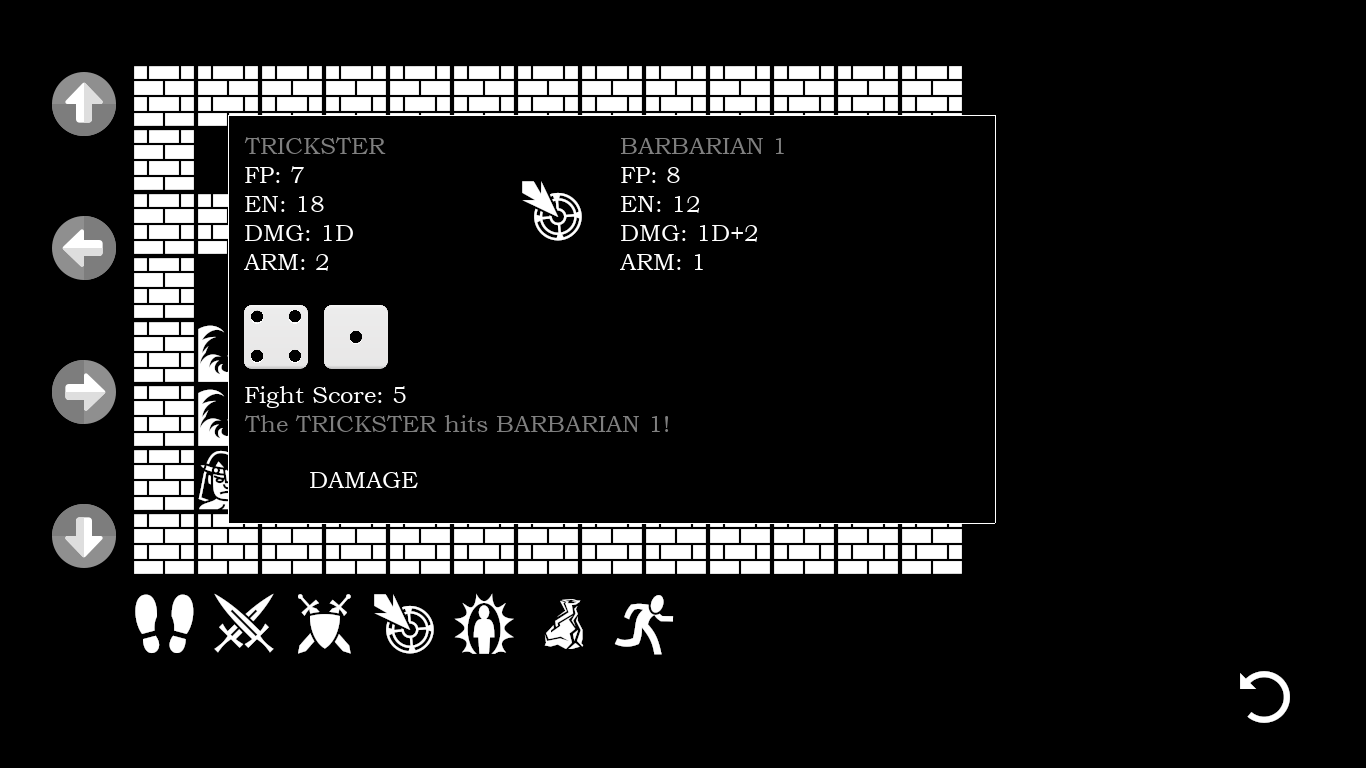
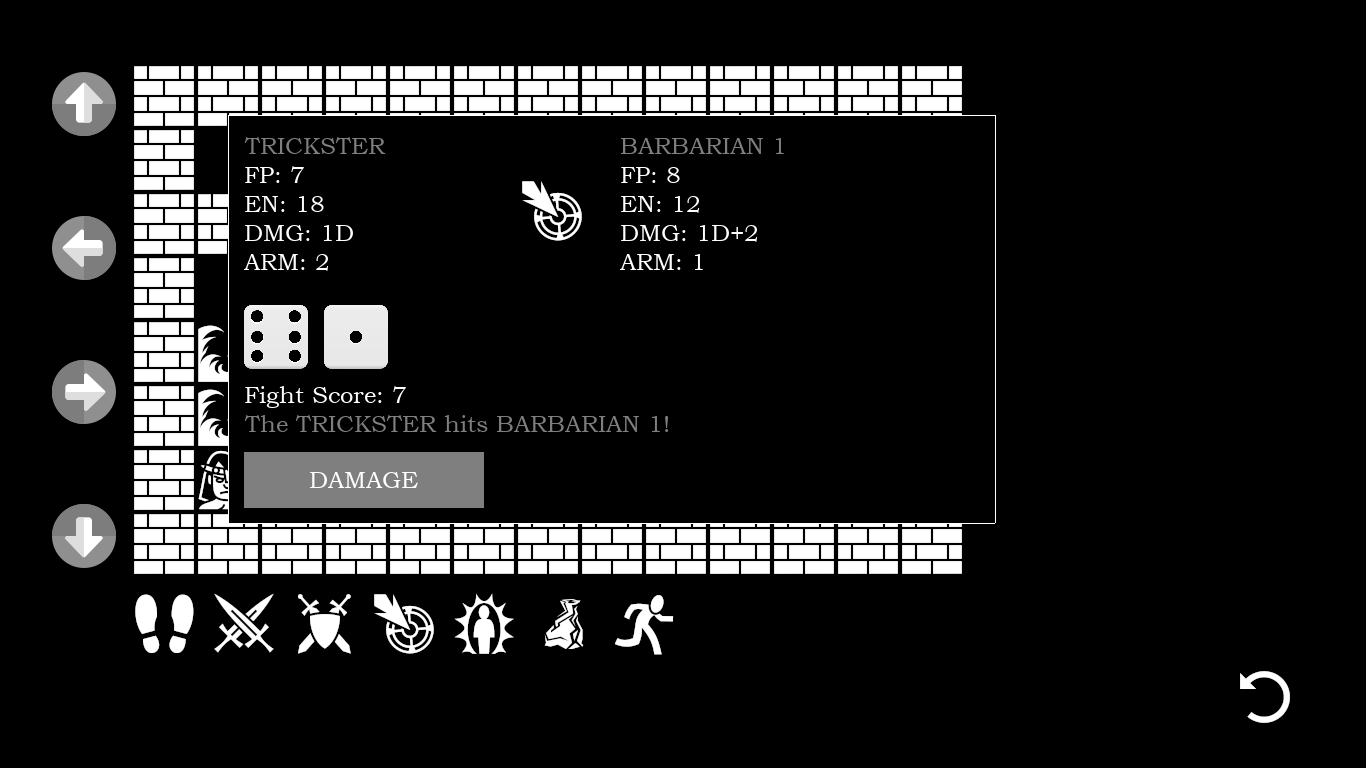
Update screenshot

Changed region(s): [[0.1537, 0.5625, 0.369, 0.6875], [0.2767, 0.5, 0.3075, 0.5312]]

diff --git a/src/graphics.hpp b/src/graphics.hpp
@@ -490,6 +490,8 @@ namespace Graphics
                 else
                 {
                     Graphics::RenderText(renderer, text, controls[i].Color, x, y, 2 * fontsize, 0);
+
+                    Graphics::DrawRect(renderer, controls[i].W, controls[i].H, controls[i].X, controls[i].Y, controls[i].Highlight);
                 }
 
                 SDL_FreeSurface(text);
